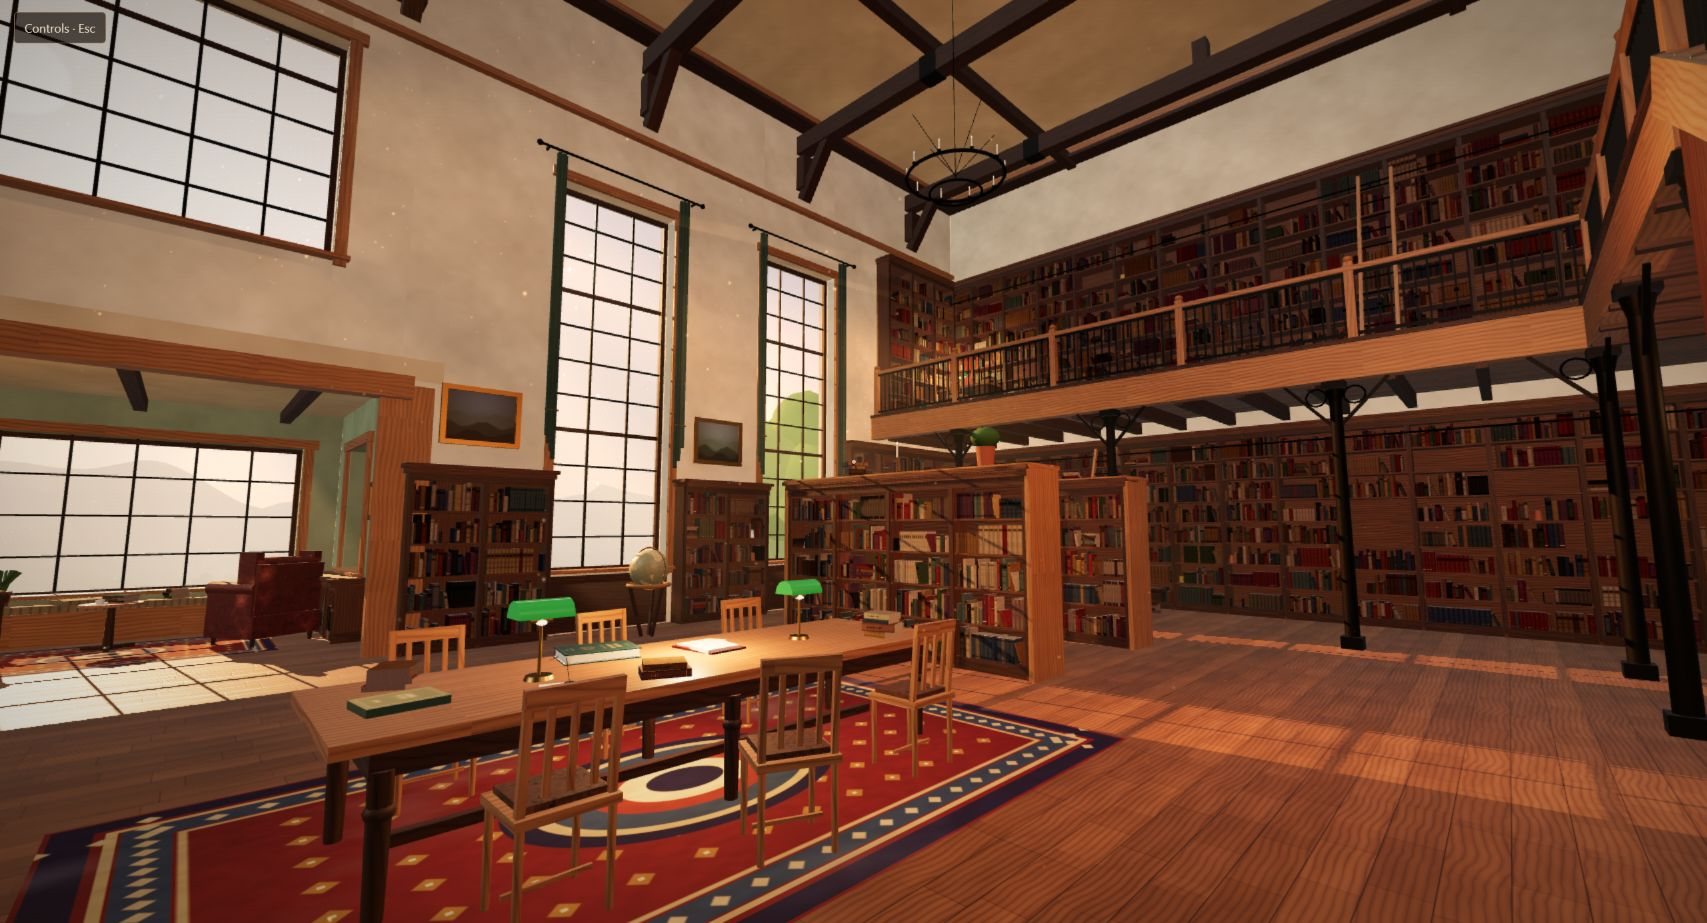
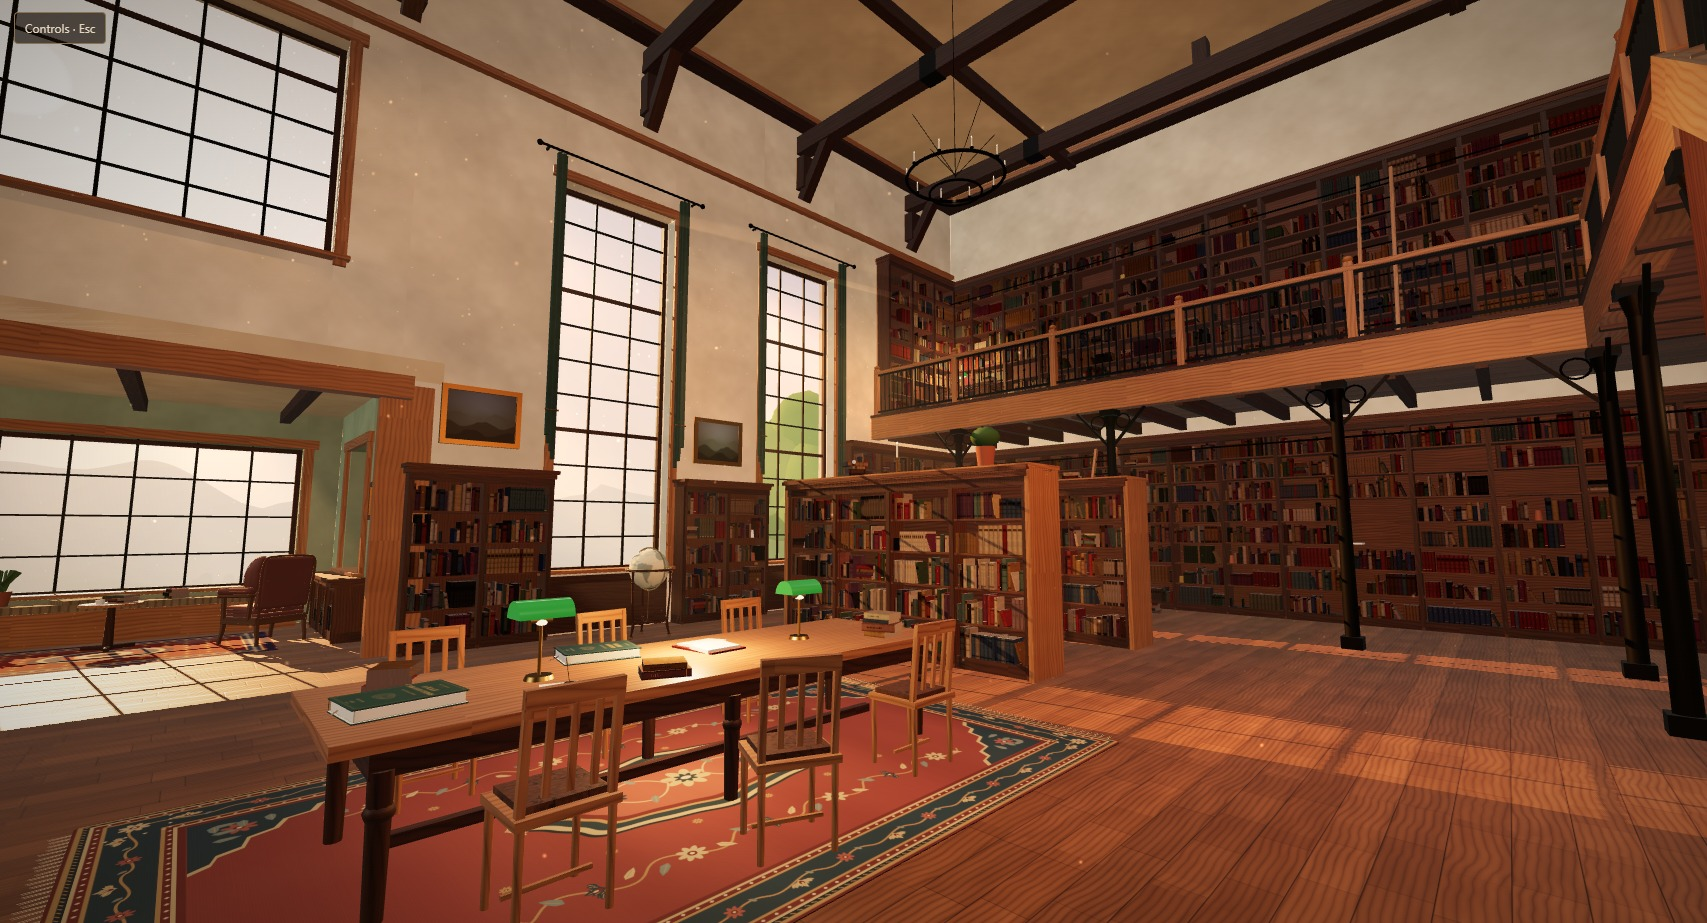
Prepare Library PR7 entrance preview with exact capture provenance

diff --git a/docs/library-preview-refresh.md b/docs/library-preview-refresh.md
@@ -1,0 +1,29 @@
+# Prepared Library entrance refresh
+
+This image is a direct, unedited Playwright JPEG capture of the real built
+Library PR7 at `5f81273b17a47438bdda50e244c4dbf921b14216`. It has not been published. Merge this image refresh
+only when that exact Library runtime is approved for deployment, so the homepage
+preview and destination represent the same room. If the runtime changes, capture
+the entrance again before publishing its preview.
+
+The default-entry-v1 framing is 1707 x 923, DPR 1, vertical FOV 70, near .05,
+far 2500, feet (3.4, 0, 4.3), camera (3.4, 1.62, 4.3), Euler YXZ yaw .78 and
+pitch .1, zero velocity. Visible Controls and crosshair HUDs remain; the default
+hint bar stays hidden. No crop, compositing, enhancement or CSS hiding was applied.
+JPEG quality was 92. Byte size is 434951; SHA256 is
[1 lines of base64/hex data omitted]
+
+The local rendered check observed the actual head bootstrap consume the incoming
+token, retain the image until the room had drawn 59 calls at the matching camera,
+then remove the cover after its normal short fade. No capture or dialog was
+restored. This verifies the destination bridge with an explicit same-origin test
+token. Homepage mock-DOM tests verify its source-side write/alignment contract;
+a full published cross-document homepage visit has not been tested for this draft.
+
+Only the Library image and its entry metadata change. Arcade and Lab image bytes
+and manifest entries, homepage theme/layout/scripts, and canonical handoff bridge
+remain unchanged. The temporary localhost capture server has been closed.
+
+The previous Library JPEG was 237295 bytes; this image is
+197,656 bytes larger. This is an image download cost,
+not a homepage 3D runtime: no room engine is added to the homepage.
